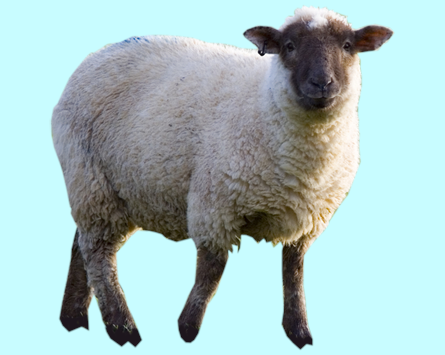
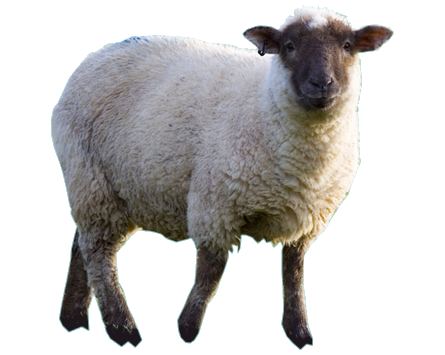
some explanation

diff --git a/asciiart.py b/asciiart.py
@@ -59,8 +59,9 @@ end[:,:,0] = x
 end[:,:,1] = x
 end[:,:,2] = x
 
-
-
+npend = np.array(end)
+npend *= 2
+end = npend
 #for i in range(endH):
 #    for j in range(endW):
 #        # gamma = gExpr(end[i,j,0])*0.2126 + gExpr(end[i,j,1])*0.7152 + gExpr(end[i,j,2])*0.0722

diff --git a/README.md b/README.md
@@ -1,0 +1,12 @@
+# running (linux / mac)
+```
+git clone https://github.com/filipkojro/ASCIIartPY.git
+cd ASCIIartPY
+python3 -m venv venv
+source venv/bin/activate
+pip3 install -r requirements.txt
+python3 asciiart.py
+```
+# example results
+![sheep](./sheep.png)
+![asciisheep](./asciisheep.png)
